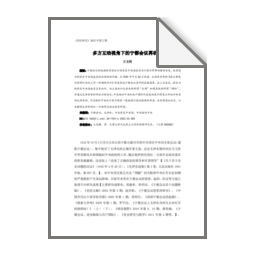
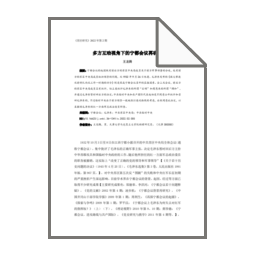
Update PDF thumbnail style: stack effect, corner fold, page alignment; update previews

diff --git a/crates/core/src/plugins/pdf.rs b/crates/core/src/plugins/pdf.rs
@@ -126,12 +126,9 @@ impl PdfGenerator {
                 let cx = (width - framed_back.width()) / 2;
                 let cy = (height - framed_back.height()) / 2;
                 
-                // Shift: +5px right, -5px up (visual depth)
-                let shift_x = (5.0 * scale_factor) as i64;
-                let shift_y = (5.0 * scale_factor) as i64;
-                
-                let back_x = cx as i64 + shift_x;
-                let back_y = cy as i64 - shift_y;
+                // Shift: 0px (Aligned)
+                let back_x = cx as i64;
+                let back_y = cy as i64;
                 
                 image::imageops::overlay(&mut canvas, &framed_back, back_x, back_y);
             }
